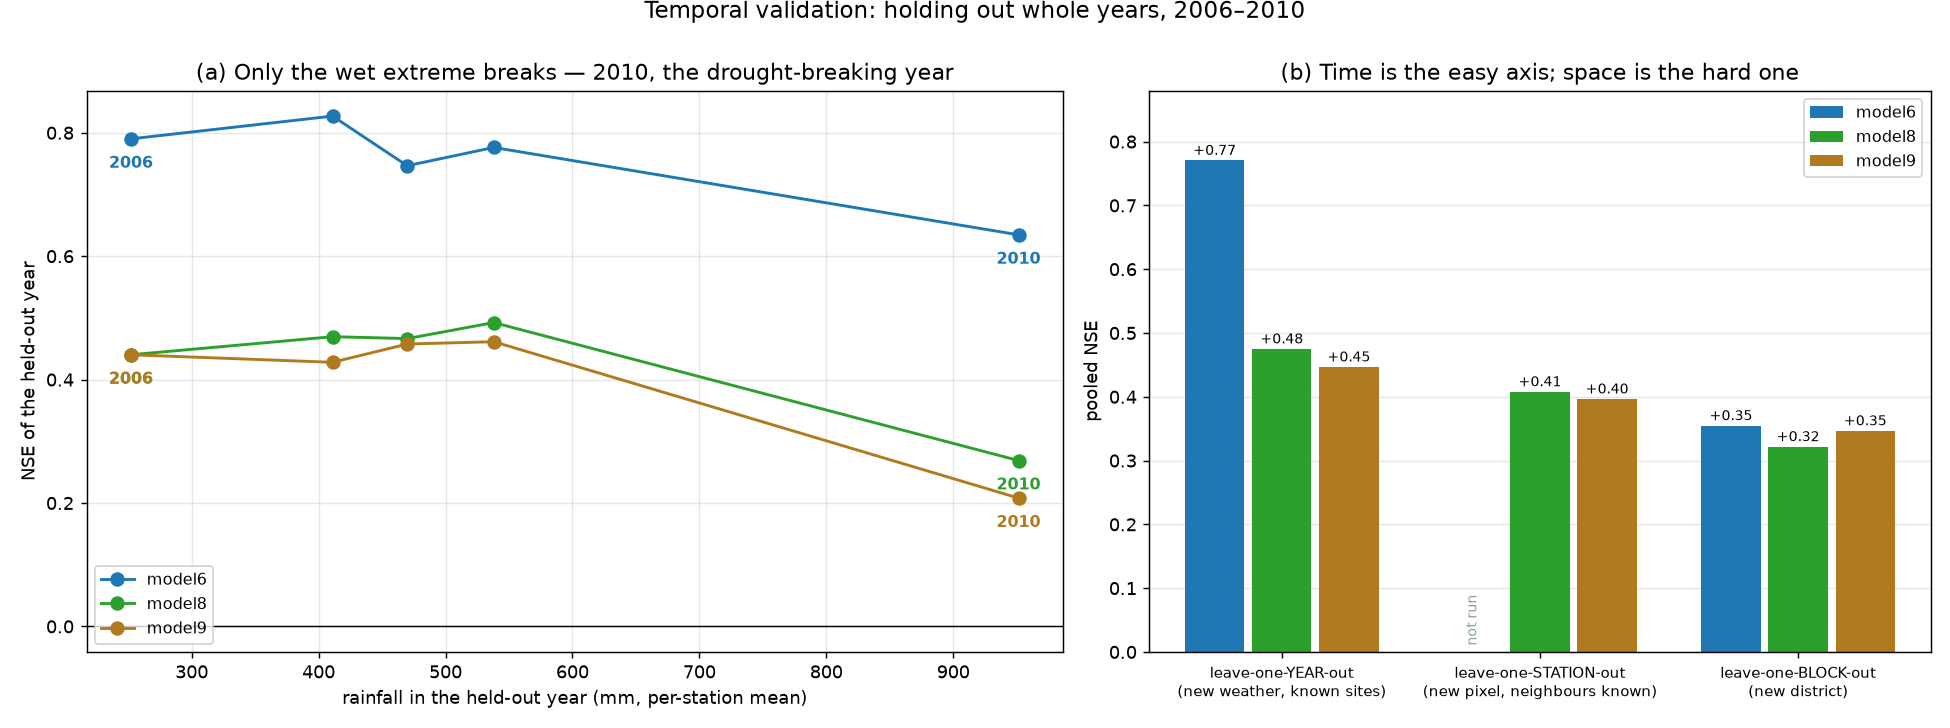
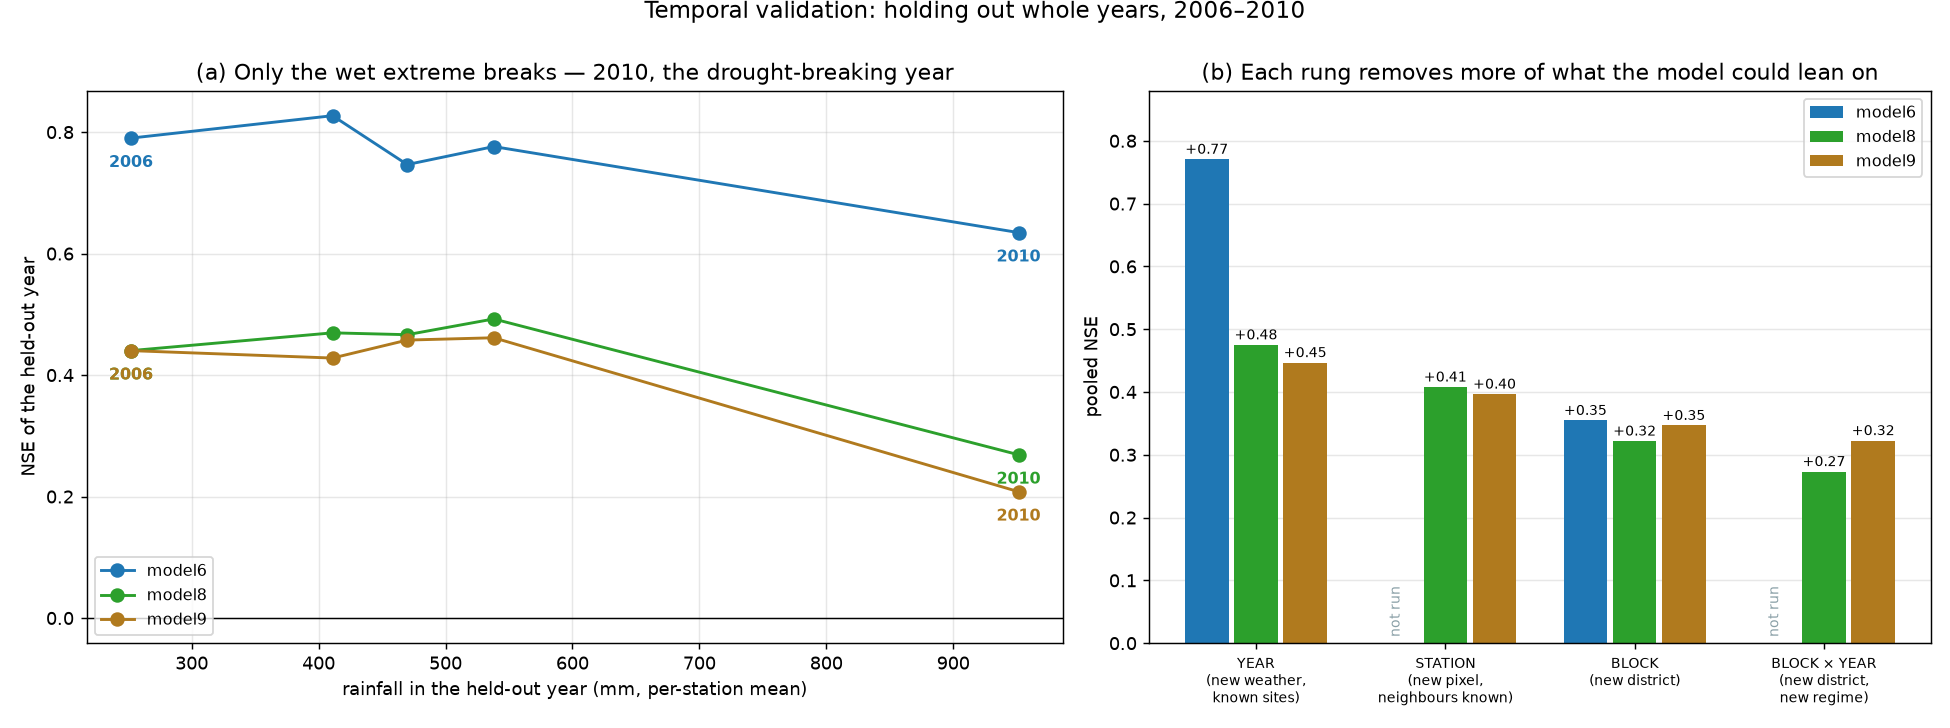
temporal validation: add the strict block x year design
The per-year results warranted the harder experiment, so run it: 44 cells, each
training on rows from NEITHER that district NOR that year -- the model has seen
neither the place nor the regime. Exclusion verified directly (zero leaked
block rows, zero leaked year rows, for three spot-checked cells).

The full ladder for the shipped model8 is monotone:

  YEAR         +0.475 pooled, station-median +0.16
  STATION      +0.408                        +0.13
  BLOCK        +0.322                        +0.07
  BLOCK x YEAR +0.273                        -0.01

That last rung is the honest floor for a national product applied to an
arbitrary year, and its station-median of zero says it plainly: at a new site
in an uncalibrated regime the model matches, but does not beat, someone who
knew that site's long-run average. It still wins pooled (+0.273) because it
ranks wet districts against dry ones correctly.

Two things the single-axis folds hid:

- THE DRY EXTREME IS ONLY HARD ONCE THE PLACE IS UNKNOWN TOO. 2006 (the
  drought's driest) scored +0.440 under year-only folds -- no trouble. Under
  block x year it falls to +0.146, level with 2010's +0.143. This corrects the
  earlier flat claim that "wet extremes break these models; dry extremes do
  not"; that page's finding 2 now carries the qualification and a forward
  reference.
- MODEL9'S ADVANTAGE WIDENS UNDER STRICTNESS: +0.323 vs model8's +0.273, and it
  wins every individual year, where the blocked-only margin was slimmer. An
[…]

diff --git a/handout/plot_temporal_validation.py b/handout/plot_temporal_validation.py
@@ -3,8 +3,9 @@
 (a) Skill of each held-out year against that year's rainfall. Four of the five
 years score alike; 2010 — the drought-breaking wet year, at nearly four times
 2006's rainfall — is the one that breaks, and it breaks by running too dry.
-(b) The same models under three fold designs (year / station / block), showing
-that transfer across *time* is easier than transfer across *space*.
+(b) The same models under four fold designs of increasing strictness (year /
+station / block / block x year), showing that transfer across *time* is easier
+than transfer across *space*, and that the strict double hold-out is the floor.
 
 Reads data/model{6,8,9}_yearcv*_predictions.csv plus the blockcv/losocv tables
 written by run_blocked_cv.py, and the forcing store for annual rainfall.
@@ -33,12 +34,15 @@ YEAR = {"model6": "model6_yearcv_predictions.csv",
         "model9": "model9_yearcv_predictions.csv"}
 LADDER = {
     "model6": {"year": YEAR["model6"], "station": None,
-               "block": "model6_blockcv_predictions.csv"},
+               "block": "model6_blockcv_predictions.csv",
+               "blockyear": "model6_blockyearcv_predictions.csv"},
     "model8": {"year": YEAR["model8"],
                "station": "model8_losocv_capacity_aridity_weighted_predictions.csv",
-               "block": "model8_blockcv_capacity_aridity_weighted_predictions.csv"},
+               "block": "model8_blockcv_capacity_aridity_weighted_predictions.csv",
+               "blockyear": "model8_blockyearcv_capacity_aridity_weighted_predictions.csv"},
     "model9": {"year": YEAR["model9"], "station": "model9_losocv_predictions.csv",
-               "block": "model9_blockcv_predictions.csv"},
+               "block": "model9_blockcv_predictions.csv",
+               "blockyear": "model9_blockyearcv_predictions.csv"},
 }
 
 
@@ -77,10 +81,11 @@ ax[0].legend(fontsize=9, loc="lower left")
 ax[0].grid(alpha=.3)
 
 # (b) the harness ladder
-designs = ["year", "station", "block"]
-labels = {"year": "leave-one-YEAR-out\n(new weather, known sites)",
-          "station": "leave-one-STATION-out\n(new pixel, neighbours known)",
-          "block": "leave-one-BLOCK-out\n(new district)"}
+designs = ["year", "station", "block", "blockyear"]
+labels = {"year": "YEAR\n(new weather,\nknown sites)",
+          "station": "STATION\n(new pixel,\nneighbours known)",
+          "block": "BLOCK\n(new district)",
+          "blockyear": "BLOCK × YEAR\n(new district,\nnew regime)"}
 w, xs = 0.26, np.arange(len(designs))
 for i, (m, srcs) in enumerate(LADDER.items()):
     vals, pos = [], []
@@ -99,9 +104,9 @@ for i, (m, srcs) in enumerate(LADDER.items()):
         ax[1].annotate(f"{v:+.2f}", (p, v), textcoords="offset points",
                        xytext=(0, 3), ha="center", fontsize=8)
 ax[1].set_xticks(xs)
-ax[1].set_xticklabels([labels[d] for d in designs], fontsize=8.5)
+ax[1].set_xticklabels([labels[d] for d in designs], fontsize=7.8)
 ax[1].set(ylabel="pooled NSE", ylim=[0, 0.88],
-          title="(b) Time is the easy axis; space is the hard one")
+          title="(b) Each rung removes more of what the model could lean on")
 ax[1].legend(fontsize=9, loc="upper right")
 ax[1].grid(alpha=.3, axis="y", zorder=0)
 

diff --git a/handout/run_blocked_cv.py b/handout/run_blocked_cv.py
@@ -86,6 +86,7 @@ def prep(tab: pd.DataFrame, features) -> pd.DataFrame:
     sub["block"] = sub["station"].map(block_of)
     sub["stratum"] = sub["station"].map(strata_from_forcing())
     sub["year"] = pd.to_datetime(sub["time"]).dt.year
+    sub["blockyear"] = sub["block"].astype(str) + "|" + sub["year"].astype(str)
     return sub
 
 
@@ -95,13 +96,22 @@ def blocked_cv(sub: pd.DataFrame, features, factory, weighted: bool,
 
     ``"block"`` is the spatial design; ``"station"`` reproduces the classic
     leave-one-station-out folds with the same estimator; ``"year"`` holds out a
-    whole calendar year, testing transfer across hydrological regimes.
+    whole calendar year, testing transfer across hydrological regimes;
+    ``"blockyear"`` holds out both at once -- a new district in a year whose
+    weather was never calibrated on, the honest worst case.
     """
     out = sub[["station", "block", "stratum", "year", "time", TARGET]].copy()
     out["pred"] = np.nan
     for grp in sorted(sub[holdout_col].unique()):
         te = (sub[holdout_col] == grp).values
-        tr = sub.loc[~te]
+        if holdout_col == "blockyear":
+            # Strict double hold-out: the test cell is one (block, year), and
+            # training excludes that block ENTIRELY and that year ENTIRELY --
+            # so the model has seen neither the place nor the regime.
+            blk, yr = grp.split("|")
+            tr = sub.loc[(sub["block"] != blk) & (sub["year"] != int(yr))]
+        else:
+            tr = sub.loc[~te]
         est = factory()
         if weighted:
             est.fit(tr[features], tr[TARGET], sample_weight=make_weights(tr))
@@ -208,7 +218,8 @@ if __name__ == "__main__":
         key, _, grp = arg.partition("@")
         holdout = grp or "block"
         loader, features, factory, weighted, name = RUNS[key]
-        tag = {"block": "blockcv", "station": "losocv", "year": "yearcv"}[holdout]
+        tag = {"block": "blockcv", "station": "losocv", "year": "yearcv",
+               "blockyear": "blockyearcv"}[holdout]
         name = name.replace("blockcv", tag)
         sub = prep(loader(), features)
         out = blocked_cv(sub, features, factory, weighted, arg, holdout_col=holdout)

diff --git a/handout/modules/temporal_validation.md b/handout/modules/temporal_validation.md
@@ -4,7 +4,8 @@
 [← model9 · Pedotransfer readout](model9.md) · [Index](../README.md) · [Downscaling to 30 m →](downscale.py.md)
 <!-- /NAV -->
 
-Source: [`../run_blocked_cv.py`](../run_blocked_cv.py) (`@year` folds) ·
+Source: [`../run_blocked_cv.py`](../run_blocked_cv.py) (`@year` and
+`@blockyear` folds) ·
 figure: [`../plot_temporal_validation.py`](../plot_temporal_validation.py)
 
 Every skill number elsewhere in this handout holds out **places**. None held out
@@ -25,18 +26,20 @@ combined would suggest. That matters because [model8](model8.md) and
 and every model here had seen all five years in training.
 
 This page holds each year out whole (`@year` folds in the same harness) for
-[model6](model6.md), model8 and model9.
+[model6](model6.md), model8 and model9 — and then holds out **place and year
+together**, which turns out to be where the honest number lives.
 
 ## Results
 
-| pooled NSE | leave-one-YEAR-out | leave-one-STATION-out | leave-one-BLOCK-out |
-|---|---|---|---|
-| model6 | **+0.771** | — ¹ | +0.355 |
-| model8 (shipped) | +0.475 | +0.408 | +0.322 |
-| model9 | +0.447 | +0.397 | +0.347 |
+| pooled NSE | YEAR | STATION | BLOCK | BLOCK × YEAR |
+|---|---|---|---|---|
+| model6 | **+0.771** | — ¹ | +0.355 | ² |
+| model8 (shipped) | +0.475 | +0.408 | +0.322 | +0.273 |
+| model9 | +0.447 | +0.397 | +0.347 | **+0.323** |
 
 ¹ not run — model6's station-out reference is the published 36-station figure
-(+0.377), not a same-rows rerun on this table.
+(+0.377), not a same-rows rerun on this table. ² model6's 44-cell block × year
+run is expensive (a boosting fit per cell); see the note at the end.
 
 Skill of each held-out year:
 
@@ -53,7 +56,8 @@ Skill of each held-out year:
 ## Findings
 
 **1 · Time is the easy axis; space is the hard one.** For the *same* model8,
-pooled NSE runs +0.475 (year) → +0.408 (station) → +0.322 (block). Holding out
+pooled NSE runs +0.475 (year) → +0.408 (station) → +0.322 (block) → +0.273
+(both). Holding out
 a year leaves every station in training, so the model already knows each site's
 *level* and only has to cope with unfamiliar weather — which is precisely the
 part the bucket does well. Holding out a district removes the level information
@@ -65,8 +69,9 @@ Four of the five years score within 0.05 NSE of each other for every model.
 2010 collapses: model8 +0.47 → +0.27, model9 +0.46 → +0.21, model6 +0.78 →
 +0.64. And it collapses *in the same direction* as the spatial failures — a
 negative bias, predicting too dry, on the year that ran wetter than anything
-in calibration. The driest year (2006, 252 mm) is not hard at all. Wet extremes
-break these models; dry extremes do not.
+in calibration. The driest year (2006, 252 mm) is not hard at all *here* — but
+that turns out to depend on the site being known, and it reverses under the
+[strict design](#the-strict-design-new-place-and-new-regime) below.
 
 **3 · The prediction that the process track would transfer better across time
 was wrong.** The reasoning was that model6 carries lookback *features* while
@@ -80,8 +85,8 @@ folds nothing spatial is withheld, so model6's 25 features can identify each
 station and learn its level directly. +0.771 is the score for *"we have a
 sensor at this site and want another year of record"* — a real use case, and
 the one model6 is best at. The same model scores +0.355 pooled and **+0.09
-block-median** when the site is genuinely new. The three harnesses reorder the
-two tracks:
+block-median** when the site is genuinely new. The harnesses reorder the two
+tracks:
 
 | harness | winner | by |
 |---|---|---|
@@ -90,6 +95,56 @@ two tracks:
 | leave-one-block-out, block-median | **model8** | +0.25 vs +0.09 |
 
 Which is the whole argument for stating the harness beside every number.
+
+## The strict design: new place *and* new regime
+
+The per-year results warranted the harder experiment. **Block × year** holds out
+both at once — 44 cells, and for each the model trains on rows from *neither*
+that district *nor* that year, so it has seen neither the place nor the
+weather regime. This is the honest floor.
+
+The full ladder, for the same shipped model8:
+
+| fold design | what it withholds | pooled NSE | station-median NSE |
+|---|---|---|---|
+| leave-one-YEAR-out | the regime | +0.475 | +0.16 |
+| leave-one-STATION-out | one pixel | +0.408 | +0.13 |
+| leave-one-BLOCK-out | the district | +0.322 | +0.07 |
+| **BLOCK × YEAR** | **both** | **+0.273** | **−0.01** |
+
+Monotone, and the last rung is the one that matters for the honest claim:
+under the strict design the **typical station's NSE is zero** — at a new site
+in an uncalibrated regime, the model is no better than someone who knew that
+site's long-run average and guessed it every day. It still beats that baseline
+*pooled* (+0.273), because it correctly ranks wet districts against dry ones.
+
+**Two things this design reveals that the single-axis folds hid:**
+
+**The dry extreme is only hard once the place is unknown too.** Under year-only
+folds, 2006 (the drought's driest) scored +0.440 — no trouble at all. Under
+block × year it drops to **+0.146**, nearly as bad as 2010's +0.143. With the
+site's level known, an unusually dry year is easy; without it, dry and wet
+extremes are equally hard.
+
+| held-out year | rain | year-only (model8) | block × year (model8) |
+|---|---|---|---|
+| 2006 | 252 | +0.440 | **+0.146** |
+| 2007 | 538 | +0.492 | +0.241 |
+| 2008 | 470 | +0.466 | +0.255 |
+| 2009 | 411 | +0.470 | +0.177 |
+| 2010 | 951 | +0.269 | +0.143 |
+
+**model9's advantage widens under strictness.** It beats model8 in *every* year
+of the strict design (+0.323 vs +0.273 pooled), where under blocked folds alone
+the margin was slimmer. The more you withhold, the more the physical readout
+earns its place — which is an argument for it that the headline blocked numbers
+understate.
+
+**M7 is a site problem, not a regime problem.** All five worst cells are M7, in
+all five years, with correlations of 0.66–0.97 — including **r = 0.97 at
+M7/2006 with NSE −14.8**. Near-perfect dynamics, catastrophic level. No
+weather regime explains that; it is simply a site whose level the covariates
+cannot reach.
 
 ## What this does and does not establish
 
@@ -105,21 +160,31 @@ this measures **"a year whose weather was not in the calibration"**, not "a year
 in isolation". Removing that would need a buffer of a year on each side of every
 fold, which on a five-year record leaves almost nothing to test.
 
-**Not attempted:** the combined block × year design (new place *and* new
-regime), which is the honest worst case. With 9 blocks × 5 years the cells get
-thin, but it is the natural next experiment.
+The **block × year** design above closes most of that gap — it is the strictest
+test available on this dataset, and it is the number to quote for a national
+product applied to an arbitrary year.
+
+## A note on model6's strict run
+
+model6's block × year design needs a gradient-boosting fit per cell — 44 of
+them, against the two process models' seconds-per-fit. It was launched but is
+not reported here; the model6 column of the strict table is left empty rather
+than filled with a figure that was not measured. The two process models are
+enough to establish the ladder's shape, and model6's position on the first
+three rungs is already known.
 
 ## Reproduce
 
 ```bash
 PYTHONPATH=. python handout/run_blocked_cv.py m8capaw@year m9@year m6@year
+PYTHONPATH=. python handout/run_blocked_cv.py m8capaw@blockyear m9@blockyear
 PYTHONPATH=. python handout/plot_temporal_validation.py
 ```
 
-The `@year` suffix works on any configuration in
+The `@year` and `@blockyear` suffixes work on any configuration in
 [`run_blocked_cv.py`](../run_blocked_cv.py), alongside `@station` and the
 default block folds. Out-of-fold predictions land in
-`data/model{6,8,9}_yearcv*_predictions.csv`.
+`data/model{6,8,9}_{yearcv,blockyearcv}*_predictions.csv`.
 
 ---
 <!-- NAV -->
